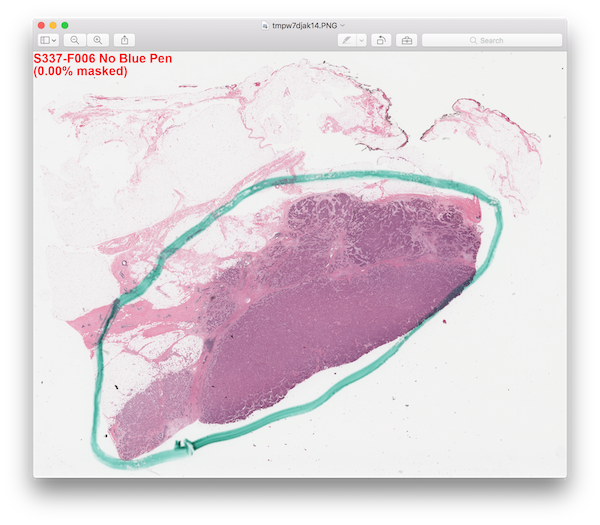
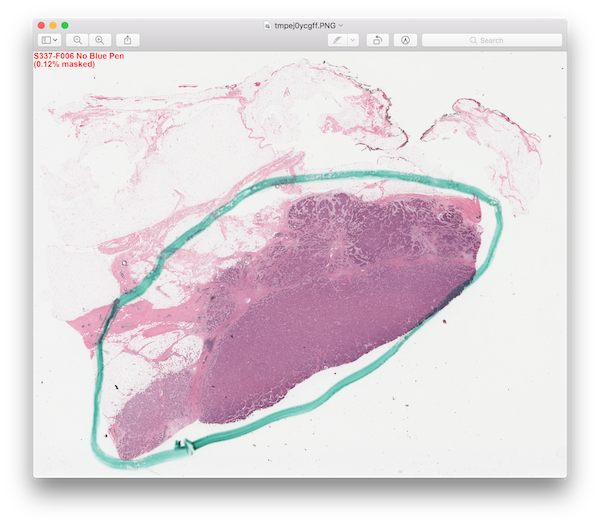
Additional segmentation examples in docs

Changed region(s): [[0.06, 0.061, 0.3, 0.1524], [0.42, 0.0305, 0.69, 0.0914]]

diff --git a/docs/index.md b/docs/index.md
@@ -1832,8 +1832,9 @@ parameter is `True`, the filter results will be displayed on the screen. The fun
 the resulting NumPy array image and a dictionary of information that is used elsewhere for generating an HTML page
 to view the various filter results for multiple slides, as we will see later.
 
-The `apply_filters_to_image()` function will create green channel, grays, red pen, green pen, and blue pen masks
-and combine these into a single mask using boolean ANDs. After this, small objects will be removed from the mask.
+The `apply_filters_to_image()` function calls the `apply_image_filters()` function, which creates green channel, grays,
+red pen, green pen, and blue pen masks and combines these into a single mask using boolean ANDs.
+After this, small objects are removed from the mask.
 
 ```
 mask_not_green = filter_green_channel(rgb)
@@ -1852,20 +1853,20 @@ Let's try this function out. In this example, we'll run `apply_filters_to_image(
 to the screen.
 
 ```
-apply_filters_to_image(337, display=True, save=False)
+filter.apply_filters_to_image(337, display=True, save=False)
 ```
 
 Here, we see the original slide #337 and the green channel filter applied to it. Notice that the green channel filter
 with a default threshold of 200 removes most of the white background but only a relatively small fraction of the green
-pen. The green channel filter masks 72.36% of the original slide.
+pen. The green channel filter masks 72.60% of the original slide.
 
 | **Slide 337, F001** | **Slide 337, F002** |
 | -------------------- | --------------------------------- |
 | ![Slide 337, F001](images/337-001.png "Slide 337, F001") | ![Slide 337, F002](images/337-002.png "Slide 337, F002") |
 
 
-Here, we see the results of the grays filter and the red pen filter. For this slide, the grays filter masks 67.66% of
-the slide, which is actually less than the green channel filter. The red pen filter masks only 0.03% of the slide,
+Here, we see the results of the grays filter and the red pen filter. For this slide, the grays filter masks 68.01% of
+the slide, which is actually less than the green channel filter. The red pen filter masks only 0.18% of the slide,
 which makes sense since there are no red pen marks on the slide.
 
 | **Slide 337, F003** | **Slide 337, F004** |
@@ -1873,43 +1874,44 @@ which makes sense since there are no red pen marks on the slide.
 | ![Slide 337, F003](images/337-003.png "Slide 337, F003") | ![Slide 337, F004](images/337-004.png "Slide 337, F004") |
 
 
-The green pen filter masks 3.71% of the slide. Visually, we see that it does a decent job of masking out the green
-pen marks on the slide. The blue pen filter masks 0% of the slide, which is perfect since there are no blue pen marks on
-the slide.
+The green pen filter masks 3.81% of the slide. Visually, we see that it does a decent job of masking out the green
+pen marks on the slide. The blue pen filter masks 0.12% of the slide, which is accurate since there are no blue pen
+marks on the slide.
 
 | **Slide 337, F005** | **Slide 337, F006** |
 | -------------------- | --------------------------------- |
 | ![Slide 337, F005](images/337-005.png "Slide 337, F005") | ![Slide 337, F006](images/337-006.png "Slide 337, F006") |
 
 
-Combining the above filters with a boolean AND results in 74.37% masking. Cleaning up these results by remove small
-objects results in a masking of 75.82%. This potentially gives a good tissue sample that we can use for deep learning.
+Combining the above filters with a boolean AND results in 74.57% masking. Cleaning up these results by remove small
+objects results in a masking of 76.11%. This potentially gives a good tissue segmentation that we can use for deep
+learning.
 
 | **Slide 337, F007** | **Slide 337, F008** |
 | -------------------- | --------------------------------- |
 | ![Slide 337, F007](images/337-007.png "Slide 337, F007") | ![Slide 337, F008](images/337-008.png "Slide 337, F008") |
 
 
-In the console, we see the slide #337 processing time takes ~5.5s in this example. The filtering is only a relatively
-small fraction of this time.
+In the console, we see the slide #337 processing time takes ~12.6s in this example. The filtering is only a relatively
+small fraction of this time. If we set `display` to `False`, processing only takes ~2.3s.
 
 ```
 Processing slide #337
-RGB                  | Time: 0:00:00.214366  Type: uint8   Shape: (1636, 2048, 3)
-Filter Green Channel | Time: 0:00:00.030129  Type: bool    Shape: (1636, 2048)
-Mask RGB             | Time: 0:00:00.013435  Type: uint8   Shape: (1636, 2048, 3)
-Filter Grays         | Time: 0:00:00.100411  Type: bool    Shape: (1636, 2048)
-Mask RGB             | Time: 0:00:00.012338  Type: uint8   Shape: (1636, 2048, 3)
-Filter Red Pen       | Time: 0:00:00.082352  Type: bool    Shape: (1636, 2048)
-Mask RGB             | Time: 0:00:00.012389  Type: uint8   Shape: (1636, 2048, 3)
-Filter Green Pen     | Time: 0:00:00.158260  Type: bool    Shape: (1636, 2048)
-Mask RGB             | Time: 0:00:00.012019  Type: uint8   Shape: (1636, 2048, 3)
-Filter Blue Pen      | Time: 0:00:00.106823  Type: bool    Shape: (1636, 2048)
-Mask RGB             | Time: 0:00:00.011877  Type: uint8   Shape: (1636, 2048, 3)
-Mask RGB             | Time: 0:00:00.015465  Type: uint8   Shape: (1636, 2048, 3)
-Remove Small Objs    | Time: 0:00:00.066158  Type: bool    Shape: (1636, 2048)
-Mask RGB             | Time: 0:00:00.013019  Type: uint8   Shape: (1636, 2048, 3)
-Slide #337 processing time: 0:00:05.485500
+RGB                  | Time: 0:00:00.568235  Type: uint8   Shape: (2515, 3149, 3)
+Filter Green Channel | Time: 0:00:00.017670  Type: bool    Shape: (2515, 3149)
+Mask RGB             | Time: 0:00:00.037547  Type: uint8   Shape: (2515, 3149, 3)
+Filter Grays         | Time: 0:00:00.323861  Type: bool    Shape: (2515, 3149)
+Mask RGB             | Time: 0:00:00.032874  Type: uint8   Shape: (2515, 3149, 3)
+Filter Red Pen       | Time: 0:00:00.253547  Type: bool    Shape: (2515, 3149)
+Mask RGB             | Time: 0:00:00.035073  Type: uint8   Shape: (2515, 3149, 3)
+Filter Green Pen     | Time: 0:00:00.395172  Type: bool    Shape: (2515, 3149)
+Mask RGB             | Time: 0:00:00.032597  Type: uint8   Shape: (2515, 3149, 3)
+Filter Blue Pen      | Time: 0:00:00.314914  Type: bool    Shape: (2515, 3149)
+Mask RGB             | Time: 0:00:00.034853  Type: uint8   Shape: (2515, 3149, 3)
+Mask RGB             | Time: 0:00:00.034556  Type: uint8   Shape: (2515, 3149, 3)
+Remove Small Objs    | Time: 0:00:00.160241  Type: bool    Shape: (2515, 3149)
+Mask RGB             | Time: 0:00:00.030854  Type: uint8   Shape: (2515, 3149, 3)
+Slide #337 processing time: 0:00:12.576835
 ```
 
 Since `apply_filters_to_image()` returns the resulting image as a NumPy array, we can perform further processing on
@@ -1921,17 +1923,16 @@ We'll compare the results by cropping two regions of the slide before and after 
 displaying all four of these regions together.
 
 ```
-rgb, _ = apply_filters_to_image(337, display=False, save=False)
+rgb, _ = filter.apply_filters_to_image(337, display=False, save=False)
 
-not_greenish = filter_green(rgb, red_upper_thresh=125, green_lower_thresh=30, blue_lower_thresh=30,
-                            display_np_info=True)
-not_grayish = filter_grays(rgb, tolerance=30)
-rgb_new = mask_rgb(rgb, not_greenish & not_grayish)
+not_greenish = filter.filter_green(rgb, red_upper_thresh=125, green_lower_thresh=30, blue_lower_thresh=30, display_np_info=True)
+not_grayish = filter.filter_grays(rgb, tolerance=30)
+rgb_new = util.mask_rgb(rgb, not_greenish & not_grayish)
 
-row1 = np.concatenate((rgb[800:1200, 100:500], rgb[750:1150, 1350:1750]), axis=1)
-row2 = np.concatenate((rgb_new[800:1200, 100:500], rgb_new[750:1150, 1350:1750]), axis=1)
+row1 = np.concatenate((rgb[1200:1800, 150:750], rgb[1150:1750, 2050:2650]), axis=1)
+row2 = np.concatenate((rgb_new[1200:1800, 150:750], rgb_new[1150:1750, 2050:2650]), axis=1)
 result = np.concatenate((row1, row2), axis=0)
-display_img(result)
+util.display_img(result)
 ```
 
 After the additional processing, we see that the pen marks in the displayed regions have been significantly reduced.
